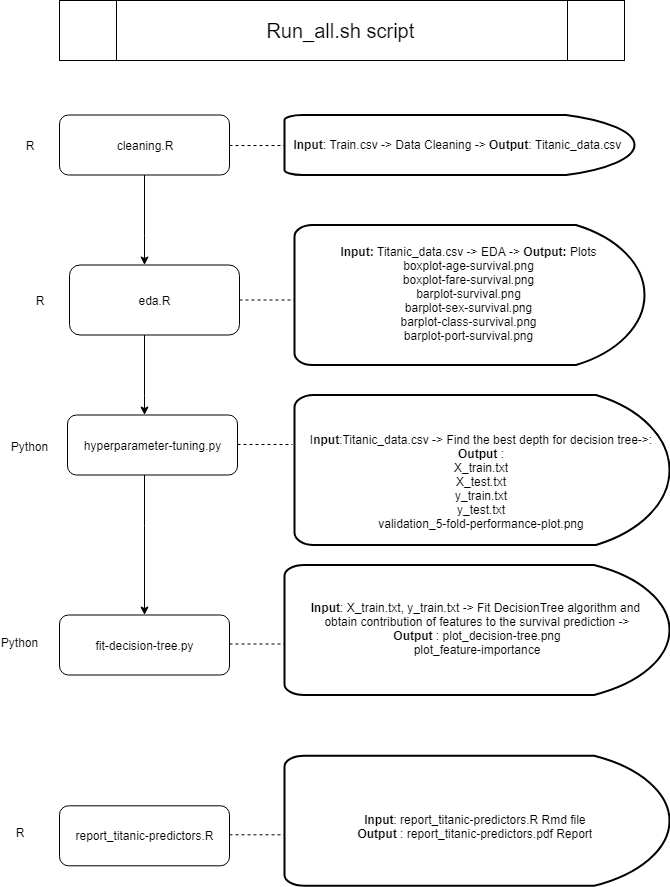
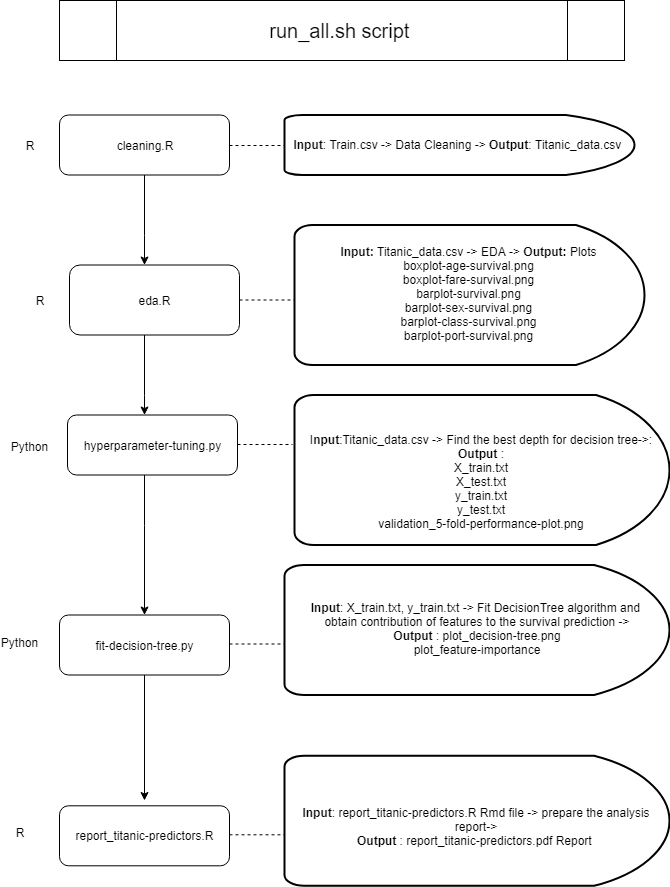
Updated the read me file with the workflow from drwa.io

Changed region(s): [[0.4478, 0.9132, 0.9552, 0.9741], [0.3881, 0.0304, 0.6269, 0.0609]]

diff --git a/README.md b/README.md
@@ -4,46 +4,38 @@ Team members:
 Alden Chen (aldenchen)  
 Birinder Singh (birinder1469)    
 
-##  Question
-What are the two strongest predictors of survival for Titanic passengers? This is a predictive question.
+## Analysis
 
-## Data Overview
-We have two datasets from [Kaggle](https://www.kaggle.com/c/titanic) with the details on the Titanic passengers and information on whether or not they survived. One is for training and the other is for testing. Below is a summary of the features in the dataset. The script for loading the data in the [src](https://github.com/UBC-MDS/DSCI-522_Titanic-Survival-Prediction/blob/master/src/load-training-data.py) directory.
+The target variable for the analysis is Survived, a dummy variable that takes the value 0 if the passenger did not survive and
+1 is he or she did survive. We have data on 712 passengers for these seven features :
 
-| Variable	|Definition	| Key|
-|----|----|----|
-|survival|	Survival|	0 = No, 1 = Yes|
-|pclass	|Ticket class	|1 = 1st, 2 = 2nd, 3 = 3rd|
-|sex	|Sex	| |
-|Age|	Age in years	| |
-|sibsp	|# of siblings / spouses aboard the Titanic	| |
-|parch	|# of parents / children aboard the Titanic	| |
-|ticket	|Ticket number	| |
-|fare	|Passenger fare	| |
-|cabin	|Cabin number	| |
-|embarked	|Port of Embarkation|	C = Cherbourg, Q = Queenstown, S = Southampton|
+|Feature	           |Description	                                    |
+|--------------------|-------------------------------------------------|
+|Passenger Class	   |First, Second or Third Class |
+|Sex	               |Male or Female |    
+|Age                 |Age of each passenger years	|
+|Siblings/Spouses	   |Number of siblings and spouses aboard the Titanic |
+|Parents/Children	   |Number of parents and children aboard the Titanic |
+|Fare	               |The amount each passenger paid for a his or her ticket |
 
-
-## Analysis Plan  
-Using the training data, we will generate a classification tree model to predict whether or not a titanic passenger survived the accident. We will then use the test data provided to test the model's accuracy and make adjustments to the model as needed. After finalizing our model, we will use the `feature_importances` field to determine which features are the best predictors of survival.
-
-## Deliverables  
-
-To summarize our results, we will produce a bar plot with the features and their importance scores. We will also submit a plot of the classification tree and report the overall accuracy of our model.
+We carry out the Exploratory data analysis to visualize the dependence of different features on the chances of survival.
+Cross validation level 5 is carried out to find the depth giving maximum accuracy for the test dataset.
+Decision Tree classification using this depth is carried out and the
+feature with maximum contribution to the survival is calculated.
+From the analysis we conclude that the two best predictors of survival for Titanic passengers are sex and passenger class.
 
 ## Execution
 
-The analysis contains 4 scripts namely which need to be run in the same order :
-- cleaning.R,
+The analysis contains 4 scripts which need to be run in the same order in run_all.sh script:
+
+- cleaning.R
 - eda.R
 - hyperparameter-tuning.py
 - fit-decision-tree.py
 
+Flowchart with details of execution, inputs and outputs for each script:
+
 ![Execution workflow](doc/Execution_workflow.png)
-
-
-
-
 
 
 ## Package Dependencies
